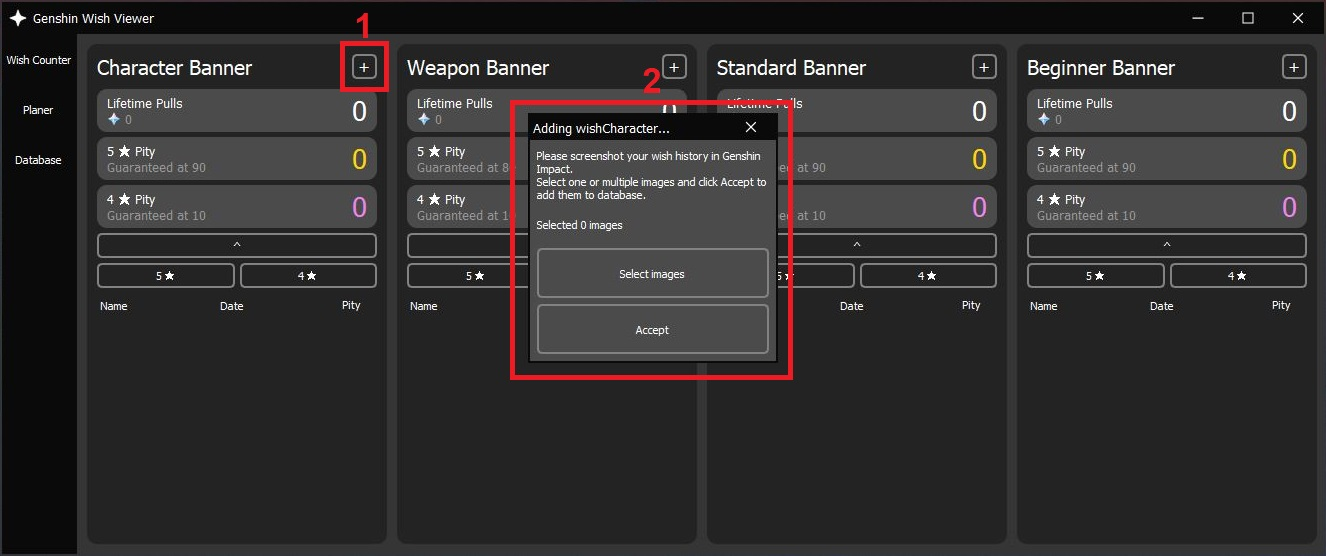
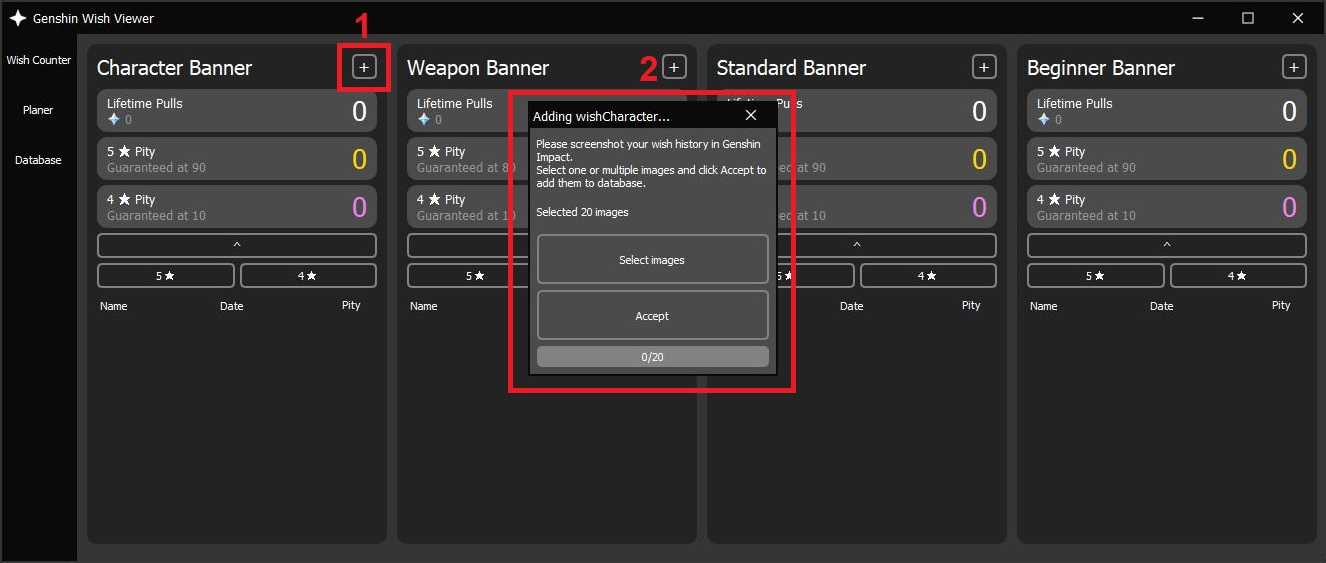
Small fixes and updated docs image

Changed region(s): [[0.0, 0.0306, 0.9894, 0.7032], [0.9585, 0.0917, 0.9894, 0.1223], [0.0309, 0.0306, 0.0618, 0.0612]]

diff --git a/GenshinWishViewer.py b/GenshinWishViewer.py
@@ -73,8 +73,8 @@ class Ui(QtWidgets.QMainWindow):
     def __init__(self):
         super(Ui, self).__init__()
 
-        w = SplashScreen()
-        w.show()
+        splash_w = SplashScreen()
+        splash_w.show()
         uic.loadUi('mainwindow.ui', self)
 
         self.db = WishDatabase('db.db')
@@ -82,7 +82,7 @@ class Ui(QtWidgets.QMainWindow):
         self.load_wishes_to_memory_from_db()
 
         self.setup_ui()
-        w.close()
+        splash_w.close()
         self.show()
 
     def setup_ui(self):
@@ -424,29 +424,60 @@ class Ui(QtWidgets.QMainWindow):
         # someone could give wrong banner_type
         for wish in wishes:
             self.wish_entries[banner_type].append(wish)
-        self.update_wish_ui()
+        self.update_wish_ui(banner_type)
 
-    def update_wish_ui(self):
-        # TODO dont update ui, if it wasn't changed
+    def update_character_wish_ui(self):
         self.characterBannerLabel_2_3.setText("{}".format(len(self.wish_entries['wishCharacter'])))  # lifetime pulls
-        self.characterBannerLabel_2_1_2.setText("{:,}".format(len(self.wish_entries['wishCharacter']) * 160).replace(',', ' '))  # primo
-        self.characterBannerLabel_3_3.setText("{}".format(self.get_pity_number(self.wish_entries['wishCharacter'], 5)))  # 5* pity
-        self.characterBannerLabel_4_3.setText("{}".format(self.get_pity_number(self.wish_entries['wishCharacter'], 4)))  # 4* pity
+        self.characterBannerLabel_2_1_2.setText(
+            "{:,}".format(len(self.wish_entries['wishCharacter']) * 160).replace(',', ' '))  # primo
+        self.characterBannerLabel_3_3.setText(
+            "{}".format(self.get_pity_number(self.wish_entries['wishCharacter'], 5)))  # 5* pity
+        self.characterBannerLabel_4_3.setText(
+            "{}".format(self.get_pity_number(self.wish_entries['wishCharacter'], 4)))  # 4* pity
 
+    def update_weapon_wish_ui(self):
         self.weaponBannerLabel_2_3.setText("{}".format(len(self.wish_entries['wishWeapon'])))  # lifetime pulls
-        self.weaponBannerLabel_2_1_2.setText("{:,}".format(len(self.wish_entries['wishWeapon']) * 160).replace(',', ' '))  # primo
-        self.weaponBannerLabel_3_3.setText("{}".format(self.get_pity_number(self.wish_entries['wishWeapon'], 5)))  # 5* pity
-        self.weaponBannerLabel_4_3.setText("{}".format(self.get_pity_number(self.wish_entries['wishWeapon'], 4)))  # 4* pity
+        self.weaponBannerLabel_2_1_2.setText(
+            "{:,}".format(len(self.wish_entries['wishWeapon']) * 160).replace(',', ' '))  # primo
+        self.weaponBannerLabel_3_3.setText(
+            "{}".format(self.get_pity_number(self.wish_entries['wishWeapon'], 5)))  # 5* pity
+        self.weaponBannerLabel_4_3.setText(
+            "{}".format(self.get_pity_number(self.wish_entries['wishWeapon'], 4)))  # 4* pity
 
+    def update_standard_wish_ui(self):
         self.standardBannerLabel_2_3.setText("{}".format(len(self.wish_entries['wishStandard'])))  # lifetime pulls
-        self.standardBannerLabel_2_1_2.setText("{:,}".format(len(self.wish_entries['wishStandard']) * 160).replace(',', ' '))  # primo
-        self.standardBannerLabel_3_3.setText("{}".format(self.get_pity_number(self.wish_entries['wishStandard'], 5)))  # 5* pity
-        self.standardBannerLabel_4_3.setText("{}".format(self.get_pity_number(self.wish_entries['wishStandard'], 4)))  # 4* pity
+        self.standardBannerLabel_2_1_2.setText(
+            "{:,}".format(len(self.wish_entries['wishStandard']) * 160).replace(',', ' '))  # primo
+        self.standardBannerLabel_3_3.setText(
+            "{}".format(self.get_pity_number(self.wish_entries['wishStandard'], 5)))  # 5* pity
+        self.standardBannerLabel_4_3.setText(
+            "{}".format(self.get_pity_number(self.wish_entries['wishStandard'], 4)))  # 4* pity
 
+    def update_beginner_wish_ui(self):
         self.beginnerBannerLabel_2_3.setText("{}".format(len(self.wish_entries['wishBeginner'])))  # lifetime pulls
-        self.beginnerBannerLabel_2_1_2.setText("{:,}".format(len(self.wish_entries['wishBeginner']) * 160).replace(',', ' '))  # primo
-        self.beginnerBannerLabel_3_3.setText("{}".format(self.get_pity_number(self.wish_entries['wishBeginner'], 5)))  # 5* pity
-        self.beginnerBannerLabel_4_3.setText("{}".format(self.get_pity_number(self.wish_entries['wishBeginner'], 4)))  # 4* pity
+        self.beginnerBannerLabel_2_1_2.setText(
+            "{:,}".format(len(self.wish_entries['wishBeginner']) * 160).replace(',', ' '))  # primo
+        self.beginnerBannerLabel_3_3.setText(
+            "{}".format(self.get_pity_number(self.wish_entries['wishBeginner'], 5)))  # 5* pity
+        self.beginnerBannerLabel_4_3.setText(
+            "{}".format(self.get_pity_number(self.wish_entries['wishBeginner'], 4)))  # 4* pity
+
+    def update_wish_ui(self, to_update=None):
+        # TODO dont update ui, if it wasn't changed
+        if to_update is None:
+            self.update_character_wish_ui()
+            self.update_weapon_wish_ui()
+            self.update_standard_wish_ui()
+            self.update_beginner_wish_ui()
+
+        elif to_update == 'wishCharacter':
+            self.update_character_wish_ui()
+        elif to_update == 'wishWeapon':
+            self.update_weapon_wish_ui()
+        elif to_update == 'wishStandard':
+            self.update_standard_wish_ui()
+        elif to_update == 'wishBeginner':
+            self.update_beginner_wish_ui()
 
     def get_pity_number(self, wish_list, rarity):
         # if wish_list is empty

diff --git a/ImportWishWindow.py b/ImportWishWindow.py
@@ -1,13 +1,10 @@
-from PyQt5 import QtWidgets, uic
-from PyQt5.QtGui import QIcon, QPalette, QColor, QPixmap, QBitmap, QPainter
-from PyQt5.QtCore import Qt, QSize, QEvent, QTimer, QRect, QMetaObject, QPoint, pyqtSignal
-from PyQt5.QtWidgets import QApplication, QPushButton, QFrame, QMainWindow, QWidget, QVBoxLayout, QHBoxLayout, QSizePolicy, QSizeGrip, QPushButton, QLabel, QDialog, QFileDialog
-from PyQt5.QtWidgets import QProgressBar
+from PyQt5.QtGui import QIcon, QColor, QBitmap, QPainter
+from PyQt5.QtCore import Qt, QRect, QPoint, pyqtSignal
+from PyQt5.QtWidgets import QFrame, QVBoxLayout, QHBoxLayout, QSizePolicy, QProgressBar, QPushButton, QLabel, QDialog, QFileDialog
 from importer import WishImporter
 from database import WishDatabase
 import threading
 import logging
-import sys
 
 logger = logging.getLogger('GenshinWishViewer')
 
@@ -32,7 +29,7 @@ class ImportWishDialog(QDialog):
         self.setup_ui_logic()
 
     def setup_ui(self):
-        self.setMinimumSize(250, 255)
+        self.setMinimumSize(250, 275)
         # self.setMaximumSize(300, 300)
         # self.setSizePolicy(QSizePolicy.Fixed, QSizePolicy.Fixed)
         self.setWindowTitle("Adding {}...".format(self.banner_type))
@@ -112,8 +109,8 @@ class ImportWishDialog(QDialog):
 
         self.progress_bar = QProgressBar(self)
         self.progress_bar.setStyleSheet(
-            "QProgressBar { border: 0px solid grey; border-radius: 0px; background-color: rgb(130, 130, 130); color: rgb(255,255,255); text-align: center; }"
-            "QProgressBar::chunk { background-color: rgb(30, 30, 30); border: 0px }")
+            "QProgressBar { border: 0px solid grey; border-radius: 5px; background-color: rgb(130, 130, 130); color: rgb(255,255,255); text-align: center; }"
+            "QProgressBar::chunk { background-color: rgb(30, 30, 30); border: 0px; border-radius: 5px; }")
         self.progress_bar.setGeometry(0, 250, 250, 10)  # x, y, width, height
         content_layout.addWidget(self.progress_bar)
 
@@ -130,22 +127,19 @@ class ImportWishDialog(QDialog):
         files = QFileDialog.getOpenFileNames(self, "Select one or more files to open", "C:", "Images (*.png *.jpg)")
         self.selected_files = files[0]
         self.number_label.setText("Selected {} images".format(len(self.selected_files)))
+        self.progress_bar.setValue(0)
+        if self.selected_files:
+            self.progress_bar.setRange(0, len(self.selected_files))
+            self.progress_bar.setFormat("%v/{}".format(len(self.selected_files)))
+        else:
+            self.progress_bar.setFormat("")
 
     def on_click_accept_button(self):
         # insert wishes to db using importer
-        self.progress_bar.setRange(0, len(self.selected_files))
-        self.progress_bar.setFormat("%v/{}".format(len(self.selected_files)))
         import_thread = threading.Thread(target=self.import_images_thread)
         import_thread.start()
-        # lock ui
-        # progress bar
-        # if successful then emit signal
-        # self.inserted_new_wishes.emit()
-        # import_thread.join()
-        # self.close()
 
     def on_click_exit_button(self):
-        # self.reload_memory_wishes.emit()
         # handle closing while we are still doing work...
         self.close()
 
@@ -178,6 +172,7 @@ class ImportWishDialog(QDialog):
             self.insert_wishes_to_memory.emit(wishes, self.banner_type)
             self.progress_bar.setValue(count)
         self.unlock_ui()
+        self.progress_bar.setFormat("Done")
 
     def lock_ui(self):
         self.select_button.setDisabled(True)

diff --git a/StartupWindow.py b/StartupWindow.py
@@ -12,7 +12,7 @@ class SplashScreen(QSplashScreen):
     def __init__(self):
         self.get_random_background_image()
         QSplashScreen.__init__(self, self.background_img)
-        self.add_progress_bar()
+        # self.add_progress_bar()
 
     def get_random_background_image(self):
         #  TODO roll it
